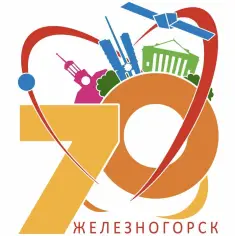
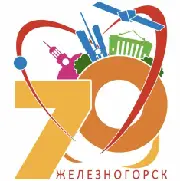
make adaptive for header & intro and check it into Chrome, Firefox, Yandex, Atom, Opera

diff --git a/components/Header.vue b/components/Header.vue
@@ -30,11 +30,17 @@
             loading="lazy"
             alt='логотип РИР'
           )
-        p.upper.ml-4.rosatom-name Умные города
+        p.upper.ml-4.rosatom-name(
+          :class="{'mobile-menu-rosatom_black': isMobile}"
+        ) Умные города
           br
-          | Росатома
+          span(
+            :class="{'mobile-menu-rosatom_blue': isMobile}"
+          ) Росатома
         div.ml-4(v-if="city.headerCityLogo")
-          picture
+          picture(
+            v-if="!isMobile"
+          )
             source(
               :srcset="require(`~/static/Header/city-logo_${city.city}.webp`)"
               type='image/webp'
@@ -44,8 +50,30 @@
               alt='логотип Города'
               loading="lazy"
             )
+          picture(
+            v-if="isMobile"
+          )
+            source(
+              media="(max-width: 650px)"
+              :srcset="require(`~/static/Header/city-logo-colored-650_${city.city}.webp`)"
+              type='image/webp'
+            )
+            source(
+              media="(max-width: 650px)"
+              :srcset="require(`~/static/Header/city-logo-colored-650_${city.city}.png`)"
+            )
+            source(
+              :srcset="require(`~/static/Header/city-logo-colored-big_${city.city}.webp`)"
+              type='image/webp'
+            )
+            img.city-logo(
+              :src="require(`~/static/Header/city-logo-colored-big_${city.city}.png`)"
+              alt='логотип Города'
+              loading="lazy"
+            )
         .Alter-logo.flex.y_center(
           v-else
+          :class="{'mobile-menu-rosatom_black': isMobile, 'mobile-menu-alter-logo-border': isMobile}"
         ) {{ city.cityName }}
       .flex.y_center
 
@@ -58,21 +86,70 @@
 
         .btn_white(
           v-scroll-to="'#Form'"
+          :class="{'mobile-menu-hide-this':isMobile}"
         ) Зарегистрироваться
-        .header__mobile-menu.flex.x_center.y_center
-          input.checkbox1.visuallyHidden(
-            type="checkbox"
-            id="mobile-menu-btn"
+        .header__mobile-menu.flex.x_center.y_center(
+          @click="isMobile = !isMobile"
+        )
+          img(
+            v-if="!isMobile"
+            src="~/static/header/mobile-menu-burger.svg"
           )
-          label(
-            for="mobile-menu-btn"
-            @click="isMobile = !isMobile"
+          img(
+            v-if="isMobile"
+            src="~/static/header/mobile-menu-close.svg"
           )
-            .hamburger.hamburger1
-              span.bar.bar1
-              span.bar.bar2
-              span.bar.bar3
-              span.bar.bar4
+          //input.checkbox1.visuallyHidden(
+          //  type="checkbox"
+          //  id="mobile-menu-btn"
+          //  :checked="isMobile"
+          //)
+          //label(
+          //  for="mobile-menu-btn"
+          //  @click="isMobile = !isMobile"
+          //)
+          //  .hamburger.hamburger1
+          //    span.bar.bar1
+          //    span.bar.bar2
+          //    span.bar.bar3
+          //    span.bar.bar4
+    div.wrap.mobile-menu-hide-this(
+      :class="{'mobile-menu-nav':isMobile, 'mobile-menu-show-this': isMobile}"
+    )
+      div(
+        v-for="item in ['Городские сервисы', 'Новости', 'Обратная связь']"
+        @click="isMobile = !isMobile"
+      )
+        .scrollTo.mobile-menu-nav-item.upper(
+          v-scroll-to="'#Form'"
+        ) {{ item }}
+      .btn_white(
+        v-scroll-to="'#Form'"
+        @click="isMobile = !isMobile"
+      ) Зарегистрироваться
+      .flex.socialsIcon
+        ShareNetwork(
+          network="vk"
+          url="https://news.vuejs.org/issues/180"
+          title="Say hi to Vite! A brand new, extremely fast development setup for Vue."
+          description="This week, I’d like to introduce you to 'Vite', which means 'Fast'. It’s a brand new development setup created by Evan You."
+          quote="The hot reload is so fast it\'s near instant. - Evan You"
+        hashtags="vuejs,vite"
+        )
+          .icon.vk
+        ShareNetwork(
+          network="facebook"
+          url="https://news.vuejs.org/issues/180"
+          title="Say hi to Vite! A brand new, extremely fast development setup for Vue."
+          description="This week, I’d like to introduce you to 'Vite', which means 'Fast'. It’s a brand new development setup created by Evan You."
+          quote="The hot reload is so fast it\'s near instant. - Evan You"
+        hashtags="vuejs,vite"
+        )
+          .icon.fb
+        .icon.yt
+        .icon.inst
+
+
 </template>
 
 <script>
@@ -106,22 +183,67 @@ export default {
 </script>
 
 <style lang="stylus" scoped>
+  .mobile
+    height 100vh
+    background #E5E5E5
   .header__mobile-menu
     display none
   .mobile-menu
     width 100vw
     height 100vh
     background: #E5E5E5;
+  .mobile-menu-alter-logo-border
+    border-left 1px solid #323232!important
+  .mobile-menu-rosatom_black
+    color: #323232
+  .mobile-menu-rosatom_blue
+    color: #005FA6
+  .mobile-menu-nav
+    margin-top: 47px
+  .mobile-menu-nav-item
+    margin: 0 auto;
+    margin-bottom: 30px
+    font-size: 14px;
+    line-height: 17px;
+    color: #393D3F;
+  .mobile-menu-hide-this
+    display none
+  .mobile-menu-show-this
+    display inherit
+  .socialsIcon
+    position absolute
+    bottom 40px
+    .icon
+      shadow()
+      background-position center
+      background-repeat no-repeat
+    .vk
+      background-image url("~static/Footer/socials/vk base.png")
+      &:hover
+        background: #01468D url("~static/Footer/socials/vk hover.png") center  no-repeat
+    .fb
+      background-image url("~static/Footer/socials/fb base.png")
+      margin-left: 2em
+      &:hover
+        background: #3366FF url("~static/Footer/socials/fb hover.png") center  no-repeat
+    .yt
+      background-image url("~static/Footer/socials/yt base.png")
+      margin-left: 2em
+      &:hover
+        background: #FC0D1B url("~static/Footer/socials/yt hover.png") center  no-repeat
+    .inst
+      background-image url("~static/Footer/socials/inst base.png")
+      margin-left: 2em
+      &:hover
+        background: url("~static/Footer/socials/inst hover.png") center  no-repeat,
+          linear-gradient(211.29deg, #5058CA 19.57%, #D62C78 54.97%, #F5CB6E 89.63%)
 
-.Alter-logo
-  height 2.5em
-  border-left 1px solid rgba(#FFF, .7)
-  text-transform uppercase
-  margin-left 1.5em;
-  padding-left 1.5em;
-.mobile
-  height 100vh
-  background #E5E5E5
+  .Alter-logo
+    height 2.5em
+    border-left 1px solid rgba(#FFF, .7)
+    text-transform uppercase
+    margin-left 1.5em;
+    padding-left 1.5em;
 
 .topNav
   padding 18px 0 18px 0
@@ -145,7 +267,7 @@ export default {
 @media screen and (max-width 1200px)
   .scrollTo
     font-size 14px
-    margin-right: 26px
+    margin-right: 15px
 @media screen and (max-width 1000px)
   .header-nav
     display none

diff --git a/components/Intro/IntroFooter.vue b/components/Intro/IntroFooter.vue
@@ -1,14 +1,18 @@
 <template lang="pug">
 footer.Intro__footer(:class="city.colorThemeClasses.footer")
   .wrap.flex.y_center.x_sb
-    // не удалять сюда будем вставлять картинку пнг на заглушку при небольших экранах!
-    //img.messenger(
-    //  :src="require(`~/static/Intro/${city.city}/messenger_${city.city}.gif`)"
-    //)
     Lottie.messenger(
       :data="require(`~/static/Intro/${city.city}/messenger_${city.city}.json`)"
       :width="320"
     )
+    picture
+      source(
+        :srcset="require(`~/static/Intro/${city.city}/messenger_${city.city}.webp`)"
+        type='image/webp'
+      )
+      img.messenger-adaptive(
+        :srcset="require(`~/static/Intro/${city.city}/messenger_${city.city}.png`)"
+      )
     .flex.achievment
       .Intro__footer-achievment
         //- h2.achievment-number {{ city.howManyUsers }}
@@ -104,6 +108,8 @@ export default {
   line-height 24px
 .messenger
   width 320px
+.messenger-adaptive
+  display none
 @media screen and (max-width: 1200px)
   .achievment-number
     font-size: 50px
@@ -118,13 +124,19 @@ export default {
   .messenger
     width 220px
     margin-right: 20px
+@media screen and (max-width: 900px)
+  .messenger
+    display none
+  .messenger-adaptive
+    display block
+    width 220px
 @media screen and (max-width: 860px)
   .Intro__footer-achievment
     width 170px
 @media screen and (max-width: 768px)
   .Intro__footer
     overflow-x hidden
-  .messenger
+  .messenger-adaptive
     width 152px
     margin-right: 31px
   .achievment
@@ -139,6 +151,6 @@ export default {
     font-size: 14px
     line-height: 17px
 @media screen and (max-width 680px)
-  .messenger
+  .messenger-adaptive
     display none
 </style>

diff --git a/store/index.js b/store/index.js
@@ -81,7 +81,7 @@ export const state = () => ({
   },
   glazov: {
     city: 'glazov',
-    headerCityLogo: true,
+    headerCityLogo: false,
     colorThemeClasses: {
       section: 'section-color-theme_glazov',
       leftCircleImage: 'left-circle-image-color-theme_glazov',
@@ -104,7 +104,7 @@ export const state = () => ({
   },
   zelenogorsk: {
     city: 'zelenogorsk',
-    headerCityLogo: true,
+    headerCityLogo: false,
     colorThemeClasses: {
       section: 'section-color-theme_zelenogorsk',
       leftCircleImage: 'left-circle-image-color-theme_zelenogorsk',

diff --git a/components/Intro/IntroSlide1.vue b/components/Intro/IntroSlide1.vue
@@ -286,14 +286,20 @@ export default {
           circle(145px)
           margin-top: 130px
 @media screen and (max-width 680px)
+  .slide1
+    .Intro__content-city-name
+      margin-top: 0
+    .Intro__content-hello-text
+      font-size: 14px
+      line-height: 19px
   .btn_blue
     background: #005CA9;
     padding: 8px 19px
     font-size: 14px;
     line-height: 16px;
   .Intro__content-city-name
-    font-size: 34px;
-    line-height: 40px;
+    font-size: 34px!important;
+    line-height: 40px!important;
   .head-of-city__name
     & h3
       font-size: 18px;

diff --git a/components/Intro/IntroSlide2.vue b/components/Intro/IntroSlide2.vue
@@ -184,4 +184,12 @@ export default {
   .slide2
     .images
       display none
+    .Intro__content-explore-title
+      font-size: 34px
+      line-height: 40px
+    .Intro__content-explore-text
+      margin-top: 0
+    .Intro__content-hello-text
+      font-size: 14px
+      line-height: 19px
 </style>

diff --git a/components/Intro/IntroSlide3.vue b/components/Intro/IntroSlide3.vue
@@ -116,4 +116,12 @@ export default {
   .slide3
     .solve-problems
       display none
+    .Intro__content-develop-title
+      font-size: 34px
+      line-height: 40px
+      margin-top: 0
+    .Intro__content-develop-text
+      margin-top: 0
+      font-size: 14px
+      line-height: 19px
 </style>
